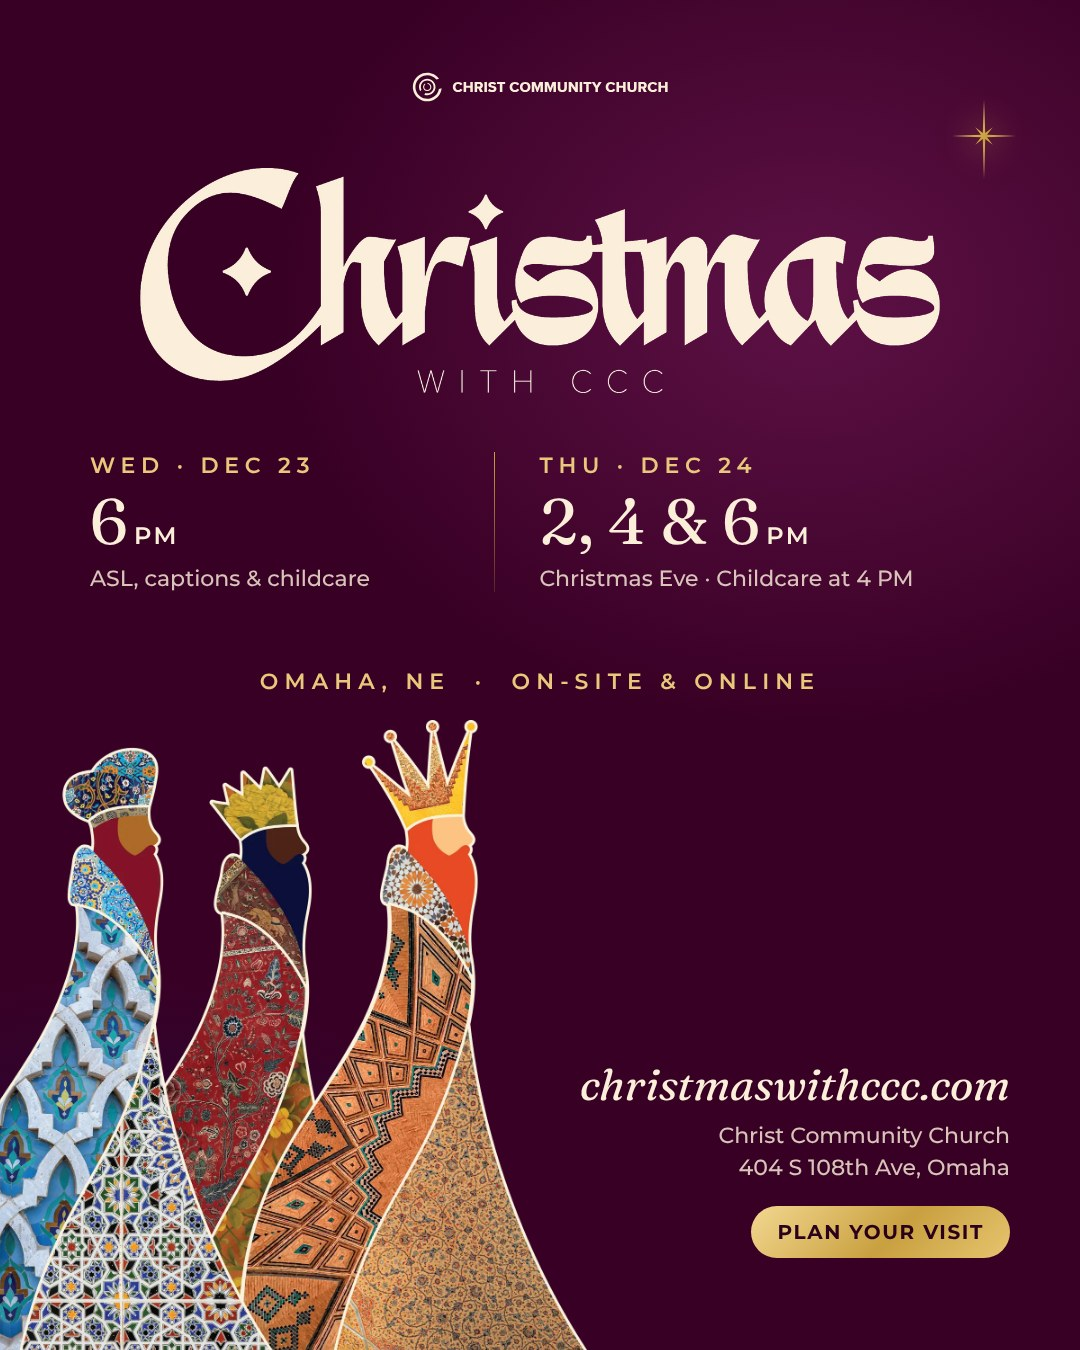
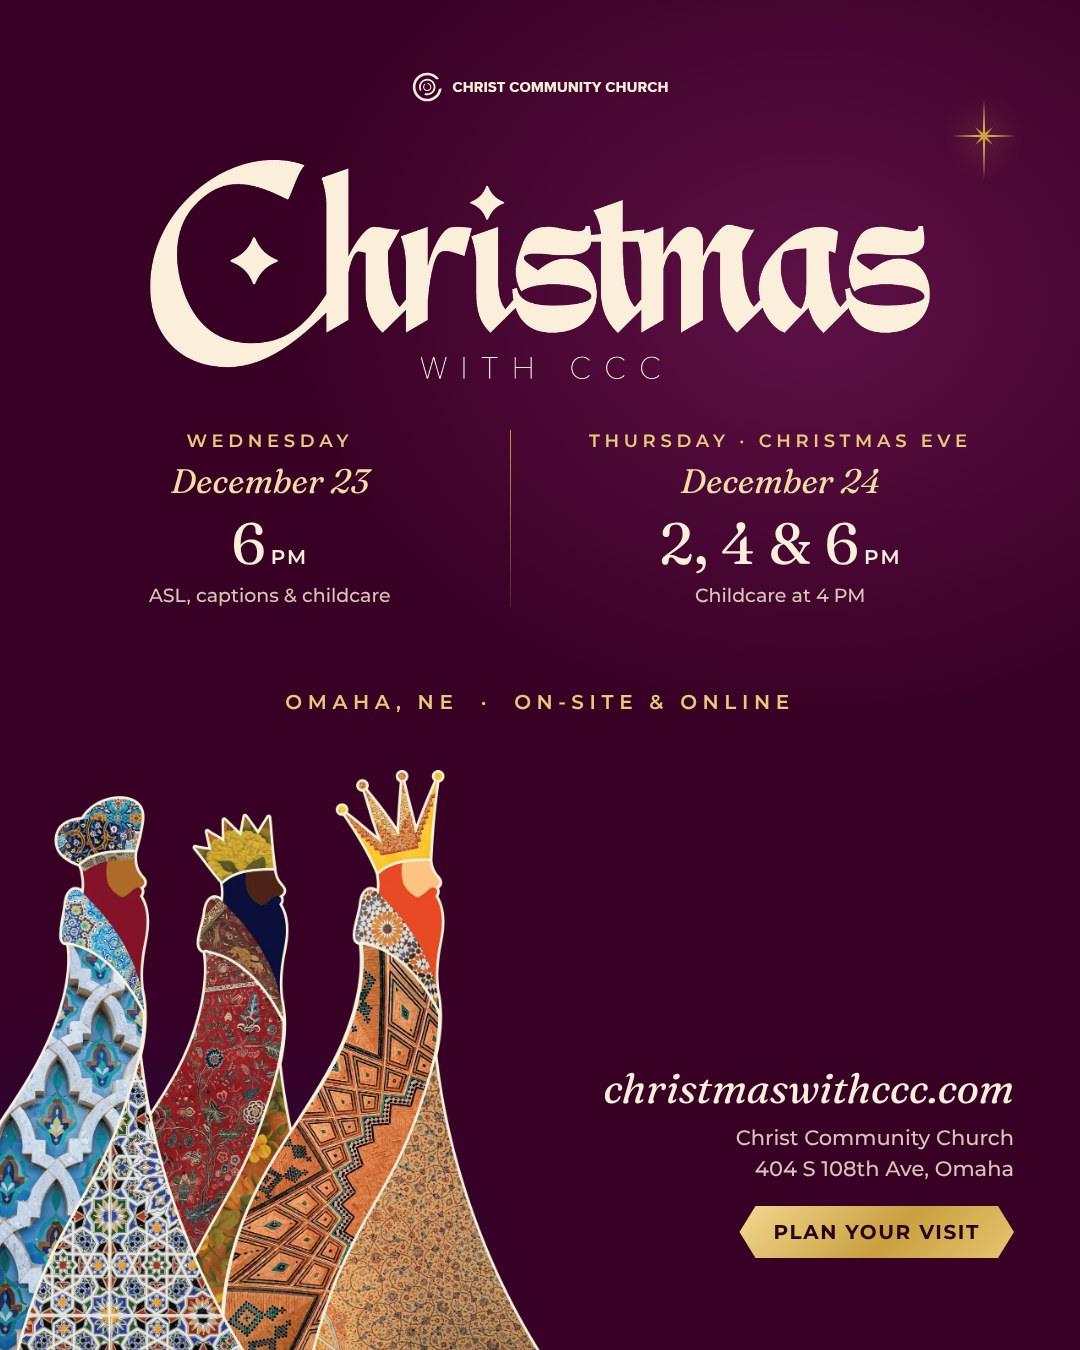
Spell out December in dates and share graphics
Claude-Session: https://claude.ai/code/session_0174zmuEshZJSgyVr4qJvWGU

diff --git a/public/quest/index.html b/public/quest/index.html
@@ -108,7 +108,7 @@ canvas{display:block;border-radius:6px;box-shadow:0 0 0 2px rgba(201,160,64,.5),
     <svg class="star" viewBox="-110 -110 220 240" aria-hidden="true"><path fill="url(#sg)" d="M0 -100 L3.4 -8.3 L24 -24 L8.3 -3.4 L88 0 L8.3 3.4 L24 24 L3.4 8.3 L0 118 L-3.4 8.3 L-24 24 L-8.3 3.4 L-88 0 L-8.3 -3.4 L-24 -24 L-3.4 -8.3Z"/></svg>
     <h1>They went home<br>another way.<small>The End</small></h1>
     <p class="verse">They came looking for a King.<br>He came looking for them.</p>
-    <p>Christmas is still an invitation to come and see, and to leave changed. Join us Wednesday, Dec 23 at 6 PM or Christmas Eve, Thursday, Dec 24 at 2, 4 and 6 PM.</p>
+    <p>Christmas is still an invitation to come and see, and to leave changed. Join us Wednesday, December 23 at 6 PM or Christmas Eve, Thursday, December 24 at 2, 4 and 6 PM.</p>
     <div class="btns">
       <a class="btn primary" href="../#services">See service times</a>
       <a class="btn ghost" href="https://cccomaha.churchcenter.com/people/forms/340750" target="_blank" rel="noopener">Plan your visit</a>
